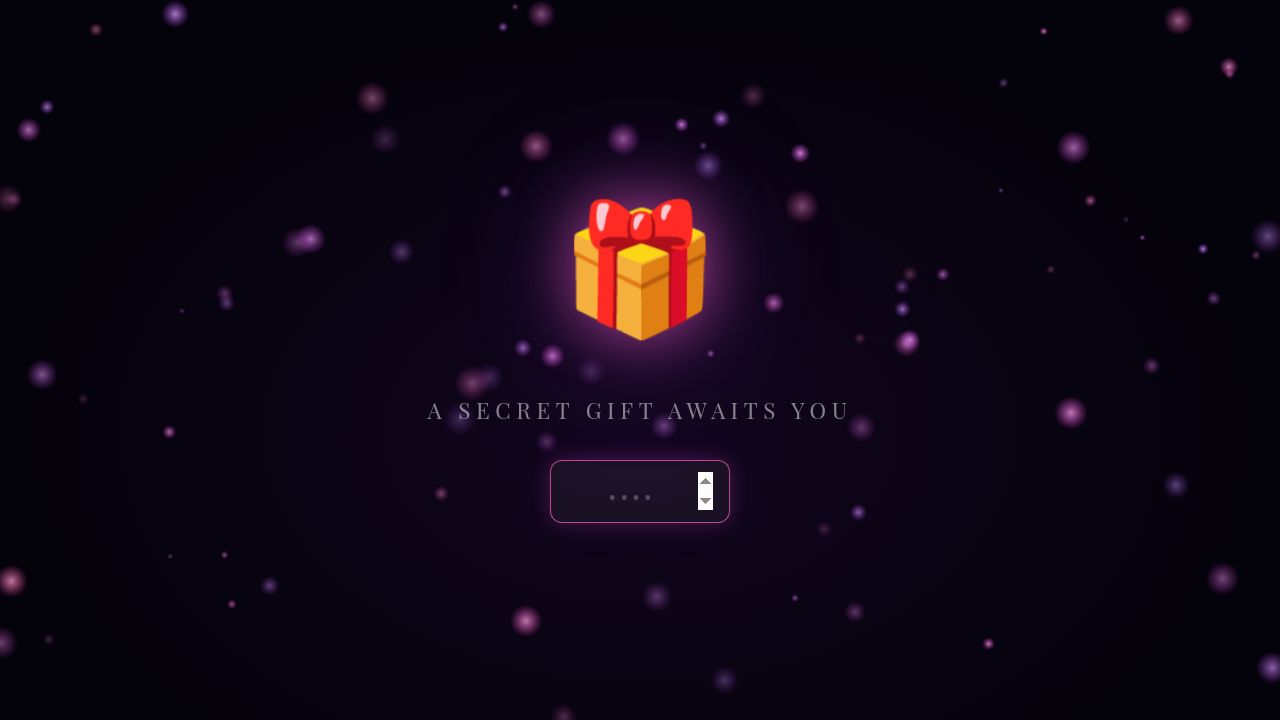
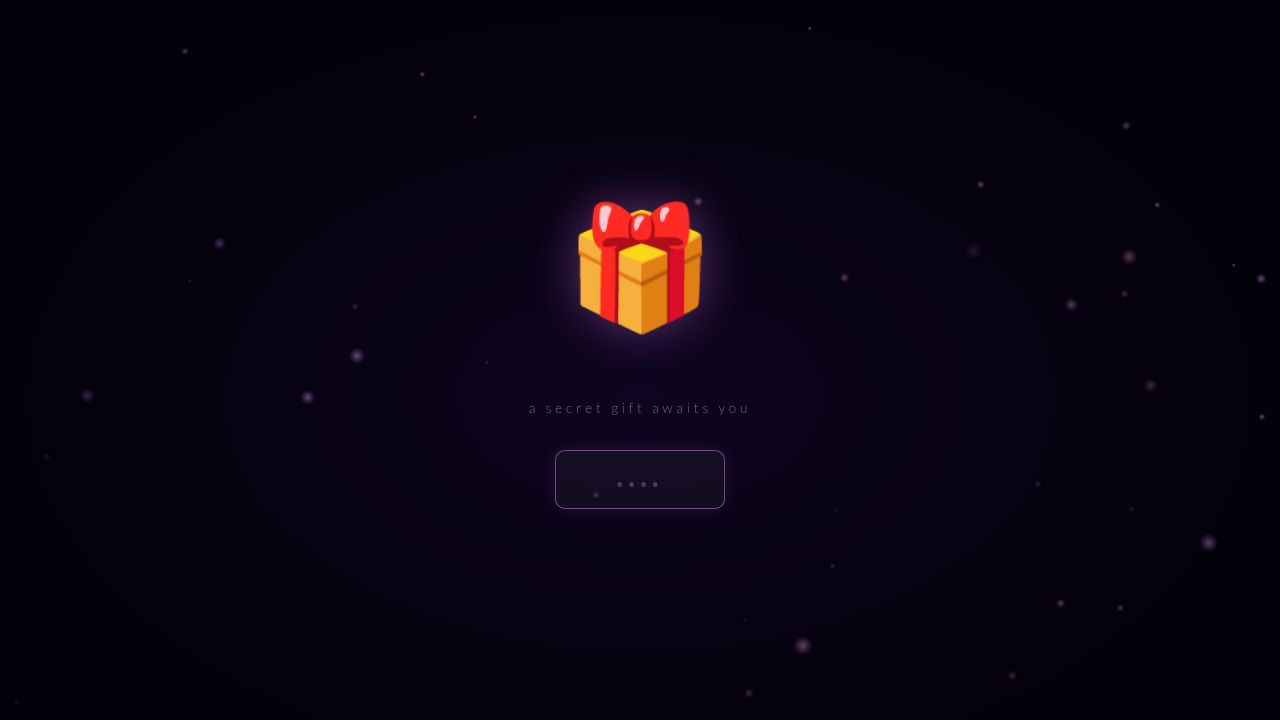
Add fun interactive buttons and a dark romantic theme to the gift reveal
Introduces a `FunButton` component and updates CSS for a dark, glass-themed "revealed stage" with interactive buttons, grid gallery, and letter sections.

Replit-Commit-Author: Agent
Replit-Commit-Session-Id: f62e797d-761c-4fd4-a612-3a87848800bb
Replit-Commit-Checkpoint-Type: full_checkpoint
Replit-Commit-Event-Id: 7bc35e20-80fb-4ead-b040-c0b1913f955a
Replit-Commit-Screenshot-Url: https://storage.googleapis.com/screenshot-production-us-central1/a4d155c4-5aec-4f25-97ee-39d9112a6508/f62e797d-761c-4fd4-a612-3a87848800bb/34uyvNL
Replit-Helium-Checkpoint-Created: true

diff --git a/artifacts/birthday-gift/src/index.css b/artifacts/birthday-gift/src/index.css
@@ -167,16 +167,26 @@ body {
 
 .stage-reveal {
   min-height: 100vh;
-  background: #faf8f5;
-  color: #1e1428;
+  background: radial-gradient(ellipse at 50% 0%, #160828 0%, #060010 60%);
+  color: #f0e8ff;
   padding-bottom: 5rem;
+}
+
+/* Section eyebrow label */
+.section-eyebrow {
+  font-size: 0.72rem;
+  letter-spacing: 0.22em;
+  text-transform: uppercase;
+  color: rgba(200, 160, 255, 0.55);
+  text-align: center;
+  margin-bottom: 0.4rem;
 }
 
 /* Hero */
 .hero-greeting {
   text-align: center;
   padding: 5.5rem 1.5rem 3rem;
-  border-bottom: 1px solid rgba(180, 130, 180, 0.12);
+  border-bottom: 1px solid rgba(160, 100, 220, 0.15);
   margin-bottom: 1rem;
 }
 
@@ -185,7 +195,7 @@ body {
   font-weight: 300;
   font-size: 0.8rem;
   letter-spacing: 0.35em;
-  color: #b08ab0;
+  color: rgba(200, 160, 255, 0.6);
   text-transform: uppercase;
   margin-bottom: 0.9rem;
 }
@@ -193,8 +203,9 @@ body {
 .hero-name {
   font-family: 'Great Vibes', cursive;
   font-size: clamp(3rem, 9vw, 5.5rem);
-  color: #2a1540;
+  color: #fff;
   line-height: 1.1;
+  text-shadow: 0 0 40px rgba(180, 100, 255, 0.3);
 }
 
 /* Gallery */
@@ -206,15 +217,14 @@ body {
 
 .gallery-section h2,
 .reasons-section h2,
+.fun-section h2,
 .letter-section h2 {
-  font-family: 'Playfair Display', serif;
-  font-size: 1.1rem;
-  font-style: italic;
+  font-family: 'Great Vibes', cursive;
+  font-size: clamp(1.8rem, 4vw, 2.4rem);
   font-weight: 400;
-  color: #7a5a8a;
+  color: rgba(240, 210, 255, 0.9);
   text-align: center;
-  letter-spacing: 0.04em;
-  margin-bottom: 2.2rem;
+  margin-bottom: 2rem;
 }
 
 .polaroid-grid {
@@ -228,8 +238,8 @@ body {
   background: #fff;
   padding: 12px 12px 46px;
   box-shadow:
-    0 2px 6px rgba(0,0,0,0.09),
-    0 8px 24px rgba(0,0,0,0.08);
+    0 4px 20px rgba(0,0,0,0.4),
+    0 0 0 1px rgba(255,255,255,0.06);
   width: clamp(190px, 26vw, 230px);
   transition: transform 0.4s cubic-bezier(0.34, 1.4, 0.64, 1), box-shadow 0.4s ease;
   cursor: default;
@@ -240,10 +250,10 @@ body {
 .polaroid:nth-child(3) { transform: rotate(-1.5deg); }
 
 .polaroid:hover {
-  transform: rotate(0deg) translateY(-8px) !important;
+  transform: rotate(0deg) translateY(-10px) scale(1.03) !important;
   box-shadow:
-    0 8px 20px rgba(0,0,0,0.13),
-    0 20px 48px rgba(0,0,0,0.1);
+    0 16px 40px rgba(160, 80, 255, 0.25),
+    0 4px 12px rgba(0,0,0,0.4);
 }
 
 .polaroid img {
@@ -256,7 +266,7 @@ body {
 .polaroid-placeholder {
   width: 100%;
   aspect-ratio: 1;
-  background: #f2eaf7;
+  background: #ede8f5;
   display: flex;
   flex-direction: column;
   align-items: center;
@@ -281,6 +291,52 @@ body {
   padding-top: 10px;
 }
 
+/* Fun buttons section */
+.fun-section {
+  max-width: 700px;
+  margin: 0 auto;
+  padding: 0 1.5rem 4rem;
+}
+
+.fun-buttons-grid {
+  display: flex;
+  flex-wrap: wrap;
+  gap: 0.75rem;
+  justify-content: center;
+}
+
+.fun-btn {
+  background: transparent;
+  border: 1.5px solid var(--btn-color, #a78bfa);
+  color: var(--btn-color, #a78bfa);
+  border-radius: 999px;
+  padding: 0.6rem 1.25rem;
+  font-family: 'Lato', sans-serif;
+  font-size: 0.88rem;
+  font-weight: 400;
+  cursor: pointer;
+  transition: background 0.2s, box-shadow 0.2s, transform 0.15s;
+  box-shadow: 0 0 0 0 var(--btn-color, #a78bfa);
+}
+
+.fun-btn:hover {
+  background: color-mix(in srgb, var(--btn-color, #a78bfa) 12%, transparent);
+  box-shadow: 0 0 18px color-mix(in srgb, var(--btn-color, #a78bfa) 35%, transparent);
+}
+
+@keyframes btnPop {
+  0%   { transform: scale(1); }
+  40%  { transform: scale(1.18); }
+  70%  { transform: scale(0.93); }
+  100% { transform: scale(1); }
+}
+
+.fun-btn-pop {
+  animation: btnPop 0.38s cubic-bezier(0.34, 1.56, 0.64, 1) both;
+  background: color-mix(in srgb, var(--btn-color, #a78bfa) 20%, transparent);
+  box-shadow: 0 0 28px color-mix(in srgb, var(--btn-color, #a78bfa) 50%, transparent);
+}
+
 /* Reason cards */
 .reasons-section {
   max-width: 840px;
@@ -295,18 +351,19 @@ body {
 }
 
 .reason-card {
-  background: #fff;
-  border: 1px solid rgba(180, 130, 180, 0.15);
-  border-radius: 14px;
+  background: rgba(255, 255, 255, 0.04);
+  border: 1px solid rgba(180, 130, 255, 0.15);
+  border-radius: 16px;
   padding: 1.5rem 1.1rem;
   text-align: center;
-  box-shadow: 0 1px 8px rgba(120, 70, 120, 0.06);
-  transition: transform 0.3s ease, box-shadow 0.3s ease;
+  backdrop-filter: blur(8px);
+  transition: transform 0.3s ease, box-shadow 0.3s ease, border-color 0.3s;
 }
 
 .reason-card:hover {
-  transform: translateY(-4px);
-  box-shadow: 0 6px 20px rgba(120, 70, 120, 0.1);
+  transform: translateY(-5px);
+  border-color: rgba(180, 130, 255, 0.35);
+  box-shadow: 0 8px 28px rgba(140, 80, 220, 0.15);
 }
 
 .reason-emoji {
@@ -319,7 +376,7 @@ body {
   font-weight: 300;
   font-size: 0.88rem;
   line-height: 1.6;
-  color: #4a3060;
+  color: rgba(220, 200, 255, 0.8);
 }
 
 /* Letter */
@@ -330,21 +387,21 @@ body {
 }
 
 .letter-box {
-  background: #fff;
-  border: 1px solid rgba(180, 130, 180, 0.15);
-  border-radius: 4px;
+  background: rgba(255, 255, 255, 0.05);
+  border: 1px solid rgba(180, 130, 255, 0.18);
+  border-radius: 16px;
   padding: 2.2rem 2.6rem;
-  box-shadow: 0 2px 16px rgba(100, 60, 120, 0.07);
+  backdrop-filter: blur(12px);
   font-weight: 300;
   font-size: 1rem;
   line-height: 1.9;
-  color: #2a1a3e;
+  color: rgba(230, 210, 255, 0.88);
 }
 
 .letter-date {
   font-family: 'Playfair Display', serif;
   font-size: 0.8rem;
-  color: #b08ab0;
+  color: rgba(200, 160, 255, 0.6);
   letter-spacing: 0.18em;
   text-transform: uppercase;
   margin-bottom: 1.4rem;
@@ -355,7 +412,7 @@ body {
 .letter-signoff {
   font-family: 'Great Vibes', cursive;
   font-size: 1.9rem;
-  color: #8a3a7a;
+  color: rgba(255, 160, 210, 0.85);
   margin-top: 1.4rem;
   display: block;
   text-align: right;
@@ -367,7 +424,7 @@ body {
   padding: 3.5rem 1rem 2.5rem;
   font-weight: 300;
   font-size: 0.8rem;
-  color: #c0a0c0;
+  color: rgba(200, 160, 255, 0.35);
   letter-spacing: 0.12em;
   display: flex;
   flex-direction: column;
@@ -379,17 +436,17 @@ body {
   display: inline-block;
   font-family: 'Great Vibes', cursive;
   font-size: 1.35rem;
-  color: #b08090;
+  color: rgba(200, 140, 255, 0.6);
   text-decoration: none;
   letter-spacing: 0.04em;
-  border-bottom: 1px solid rgba(176, 128, 144, 0.3);
+  border-bottom: 1px solid rgba(200, 140, 255, 0.2);
   padding-bottom: 2px;
   transition: color 0.25s, border-color 0.25s;
 }
 
 .reveal-countdown-link:hover {
-  color: #d4a0b8;
-  border-color: rgba(212, 160, 184, 0.6);
+  color: rgba(220, 170, 255, 0.9);
+  border-color: rgba(220, 170, 255, 0.45);
 }
 
 /* ── Sword clash ── */

diff --git a/artifacts/birthday-gift/src/pages/BirthdayGift.tsx b/artifacts/birthday-gift/src/pages/BirthdayGift.tsx
@@ -319,6 +319,24 @@ function WhiteFlash({ visible, onDone }: { visible: boolean; onDone: () => void 
   );
 }
 
+/* ─── Fun button ─── */
+function FunButton({ label, color }: { label: string; color: string }) {
+  const [popped, setPopped] = useState(false);
+  const tap = () => {
+    setPopped(true);
+    setTimeout(() => setPopped(false), 400);
+  };
+  return (
+    <button
+      className={`fun-btn${popped ? " fun-btn-pop" : ""}`}
+      style={{ "--btn-color": color } as React.CSSProperties}
+      onClick={tap}
+    >
+      {label}
+    </button>
+  );
+}
+
 /* ─── Polaroid card ─── */
 function PolaroidCard({ src, caption, delay }: { src: string; caption: string; delay: number }) {
   const [loaded, setLoaded] = useState(false);
@@ -407,7 +425,8 @@ export default function BirthdayGift() {
 
           {/* Photos */}
           <section className="gallery-section">
-            <h2>moments i want to remember</h2>
+            <p className="section-eyebrow">📸 moments</p>
+            <h2>i want to remember</h2>
             <div className="polaroid-grid">
               <PolaroidCard src="photo1.jpg" caption="always"    delay={0.1} />
               <PolaroidCard src="photo2.jpg" caption="my fav"    delay={0.25} />
@@ -415,8 +434,26 @@ export default function BirthdayGift() {
             </div>
           </section>
 
+          {/* Fun buttons */}
+          <section className="fun-section fade-in-up">
+            <p className="section-eyebrow">💀 real ones know</p>
+            <h2>things we both know</h2>
+            <div className="fun-buttons-grid">
+              {[
+                { label: "pixi sucks 💀",               color: "#ff6b9d" },
+                { label: "underground 2.0 changed everything 🎮", color: "#a78bfa" },
+                { label: "doja cat > everyone 🎤",      color: "#f59e0b" },
+                { label: "we are literally the same person 😭", color: "#34d399" },
+                { label: "best stalking duo fr 🕵️",      color: "#60a5fa" },
+              ].map((b, i) => (
+                <FunButton key={i} label={b.label} color={b.color} />
+              ))}
+            </div>
+          </section>
+
           {/* Reason cards */}
           <section className="reasons-section fade-in-up fade-in-up-delay-1">
+            <p className="section-eyebrow">🌟 appreciation post</p>
             <h2>a few things</h2>
             <div className="reasons-grid">
               {[